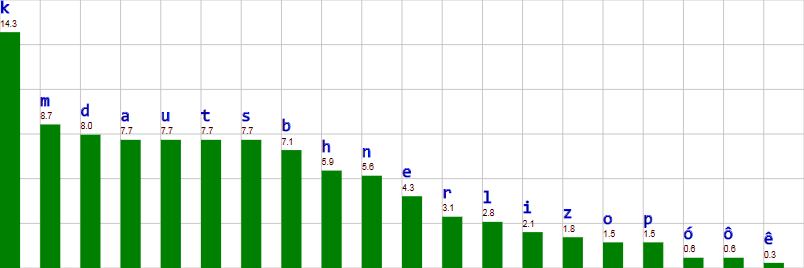
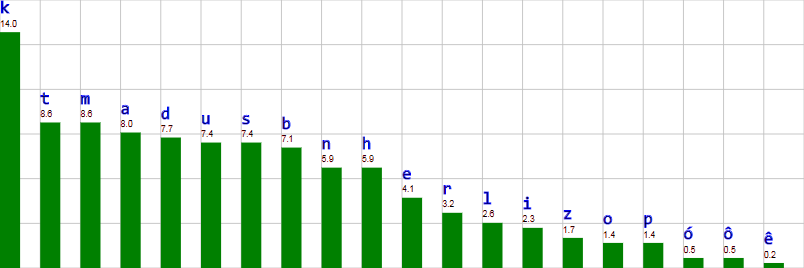
charts

diff --git a/eremoran.html b/eremoran.html
@@ -377,7 +377,7 @@ u	u	ʊ
 			<li>Denotes plants whence their fruit/nuts came.</li>
 		</ul>
 	</li>
-	<li>-om = verb -> noun suffix</li>
+	<li>-am = verb -> noun suffix</li>
 	<li>-(i)s&ecirc;m = -ity, -ness, -hood, noun -> noun, from <i>-(i)su + -êr + -m</i></li>
 	<!-- verb-forming -->
 	<li>-baz = passivizer. Only used in the formation of compounds, never as a verb in the end.</li>
@@ -425,15 +425,6 @@ u	u	ʊ
 </ul>
 
 <h2 id="Vocab">Vocab</h2>
-
-<table role='presentation'>
-	<tr>
-		<td><img src="img/eremoran_initial_frequency.png" width="600"/></td>
-	</tr>
-	<tr>
-		<td><div class="desc">Initial frequencies of Eremoran words.</div></td>
-	</tr>
-</table>
 
 <!-- Completed up to section 8 of vocabpriority.html -->
 
@@ -621,8 +612,8 @@ http://xahlee.info/kbd/char_frequency_counter.html
 				<li>happen</li>
 			</ol>
 		</dd>
-	<dt>af&ecirc;kom</dt>
-		<dd>Etymology: af&ecirc;kz + -om</dd>
+	<dt>af&ecirc;kam</dt>
+		<dd>Etymology: af&ecirc;kz + -am</dd>
 		<dd>n., 5th</dd>
 		<dd>
 			<ol>
@@ -689,7 +680,7 @@ http://xahlee.info/kbd/char_frequency_counter.html
 			</ol>
 		</dd>
 	<dt>an&ocirc;m</dt>
-		<dd>Etymology: anoz + -om</dd>
+		<dd>Etymology: anoz + -am</dd>
 		<dd>n., 5th</dd>
 		<dd>
 			<ol>
@@ -1606,8 +1597,16 @@ http://xahlee.info/kbd/char_frequency_counter.html
 				<li>tonality</li>
 			</ol>
 		</dd>
+	<dt>kalam</dt>
+		<dd>Etymology: kalz + -am</dd>
+		<dd>n., 5th</dd>
+		<dd>
+			<ol>
+				<li>need</li>
+			</ol>
+		</dd>
 	<dt>kald&ocirc;m</dt>
-		<dd>Etymology: kalz + -om</dd>
+		<dd>Etymology: kaldoz + -am</dd>
 		<dd>n., 5th</dd>
 		<dd>
 			<ol>
@@ -1624,14 +1623,6 @@ http://xahlee.info/kbd/char_frequency_counter.html
 				<li>seek; search for</li>
 				<li>miss; lack</li>
 				<li>want</li>
-			</ol>
-		</dd>
-	<dt>kalom</dt>
-		<dd>Etymology: kalz + -om</dd>
-		<dd>n., 5th</dd>
-		<dd>
-			<ol>
-				<li>need</li>
 			</ol>
 		</dd>
 	<dt>kalz</dt>
@@ -1852,21 +1843,21 @@ http://xahlee.info/kbd/char_frequency_counter.html
 				<li>arm</li>
 			</ol>
 		</dd>
+	<dt>kopam</dt>
+		<dd><img src="img/eremoran/kopz.png" width="64" alt="" class="illustration"></dd>
+		<dd>Etymology: kopz + -am</dd>
+		<dd>n.</dd>
+		<dd>
+			<ol>
+				<li>love</li>
+			</ol>
+		</dd>
 	<dt>kopdoz</dt>
 		<dd>Etymology: diminutive of kopz</dd>
 		<dd>v.</dd>
 		<dd>
 			<ol>
 				<li>like</li>
-			</ol>
-		</dd>
-	<dt>kopom</dt>
-		<dd><img src="img/eremoran/kopz.png" width="64" alt="" class="illustration"></dd>
-		<dd>Etymology: kopz + -om</dd>
-		<dd>n.</dd>
-		<dd>
-			<ol>
-				<li>love</li>
 			</ol>
 		</dd>
 	<dt>kopz</dt>
@@ -1965,8 +1956,8 @@ http://xahlee.info/kbd/char_frequency_counter.html
 				<li>gather</li>
 			</ol>
 		</dd>
-	<dt>kudom</dt>
-		<dd>Etymology: -kudz + -om</dd>
+	<dt>kudam</dt>
+		<dd>Etymology: -kudz + -am</dd>
 		<dd>n., 5th</dd>
 		<dd>
 			<ol>
@@ -2571,8 +2562,8 @@ http://xahlee.info/kbd/char_frequency_counter.html
 				<li>be happy</li>
 			</ol>
 		</dd>
-	<dt>parom</dt>
-		<dd>Etymology: parz + -om</dd>
+	<dt>param</dt>
+		<dd>Etymology: parz + -am</dd>
 		<dd>n., 5th</dd>
 		<dd>
 			<ol>
@@ -2692,14 +2683,14 @@ http://xahlee.info/kbd/char_frequency_counter.html
 			</ol>
 		</dd>
 	<dt>saurom</dt>
-		<dd>Etymology: saurz + -om</dd>
+		<dd>Etymology: saurz + -om (rare variant of -am)</dd>
 		<dd>n., 5th</dd>
 		<dd>
 			<ol>
 				<li>sight, vision</li>
 			</ol>
 		</dd>
-	<dt>sauroma</dt>
+	<dt>saurama</dt>
 		<dd><img src="img/eremoran/sauroma.png" width="64" alt="" class="illustration"></dd>
 		<dd>Etymology: saurom + -a</dd>
 		<dd>n., 4th</dd>
@@ -4479,6 +4470,33 @@ Universals Violated:
 
 7; 111-112; 124<abbr title="Not true in younger speech">*</abbr>; 181; 196; 208; 240; 258; 262-263; 
 </pre>
+
+<table role='presentation'>
+	<tr>
+		<td><img src="img/eremoran_initial_frequency.png" width="600"/></td>
+	</tr>
+	<tr>
+		<td><div class="desc">Initial frequencies of Eremoran words.</div></td>
+	</tr>
+</table>
+
+<table role='presentation'>
+	<tr>
+		<td><img src="img/eremoran_medial_frequency.png" width="600"/></td>
+	</tr>
+	<tr>
+		<td><div class="desc">Medial frequencies of Eremoran words.</div></td>
+	</tr>
+</table>
+
+<table role='presentation'>
+	<tr>
+		<td><img src="img/eremoran_final_frequency.png" width="600"/></td>
+	</tr>
+	<tr>
+		<td><div class="desc">Final frequencies of Eremoran words.</div></td>
+	</tr>
+</table>
 
 <div id="bottom"></div>
 </html>

diff --git a/index.html b/index.html
@@ -167,7 +167,7 @@
 		<div id="eremorweather"></div><br/>
 		<a href="https://validator.w3.org/check?uri=https://mocha2007.github.io"><img src="img/html.png" alt="Valid HTML 4.01 Strict"></a>
 		<a href="https://jigsaw.w3.org/css-validator/validator?uri=https://mocha2007.github.io"><img src="img/css.png" alt="Valid CSS!"/></a><br/><br/>
-		<i>Site Last Updated 16 Jun 2018</i>
+		<i>Site Last Updated 17 Jun 2018</i>
 	</div>
 </body>
 </html>
